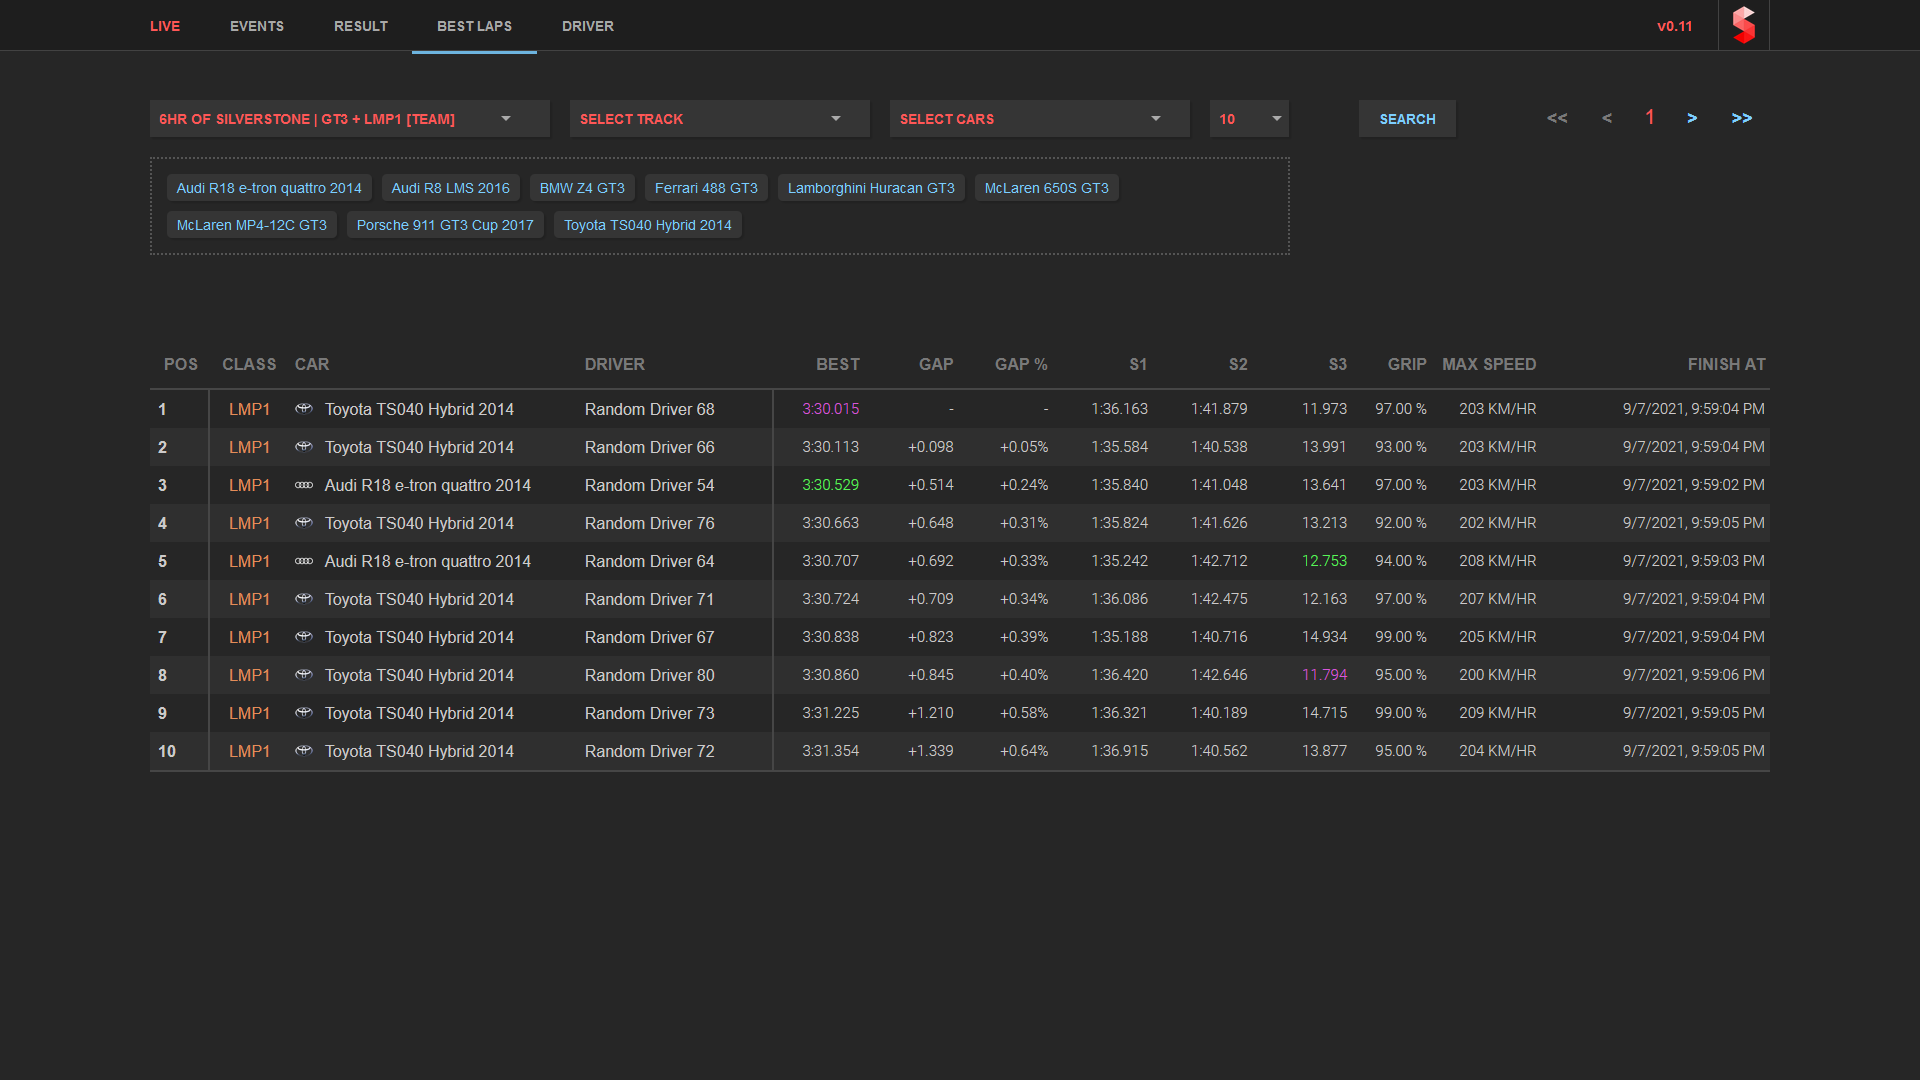
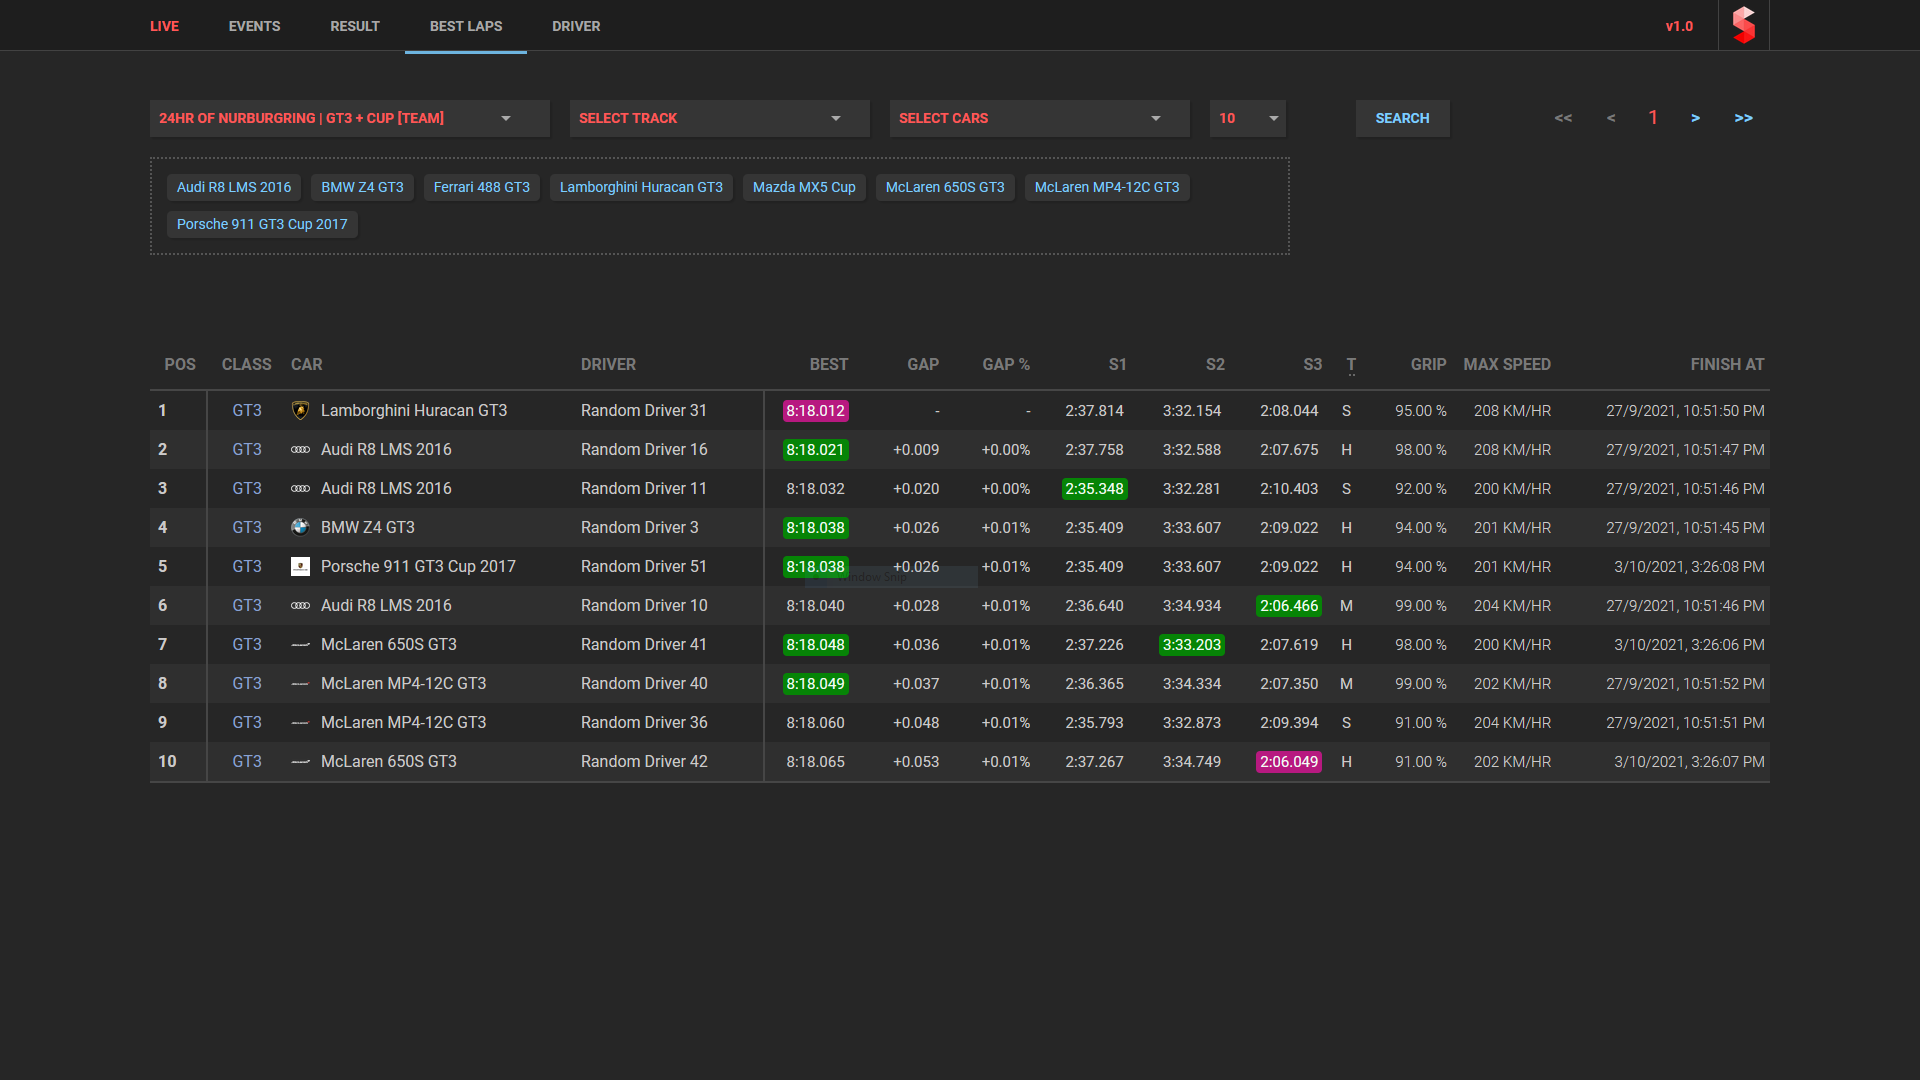
Update screenshots for v1.0

diff --git a/README.md b/README.md
@@ -8,9 +8,6 @@
 ### Live Qualifying Sessions Page
 ![Live Qualifying Sessions Page](/screenshots/page-qualifying.png)
 
-### Live Race Sessions Page
-![Live Race Sessions Page](/screenshots/page-race.png)
-
 ### Live Track Map
 ![Live Track Map](/screenshots/live-map.png)
 
